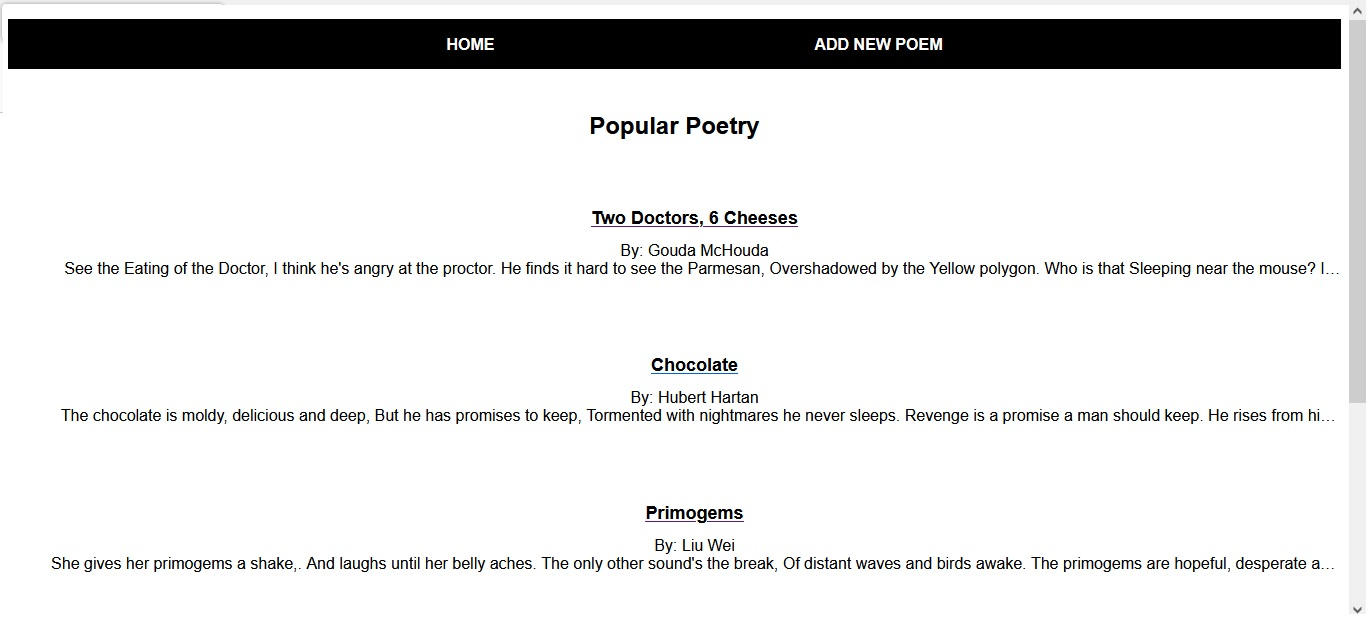
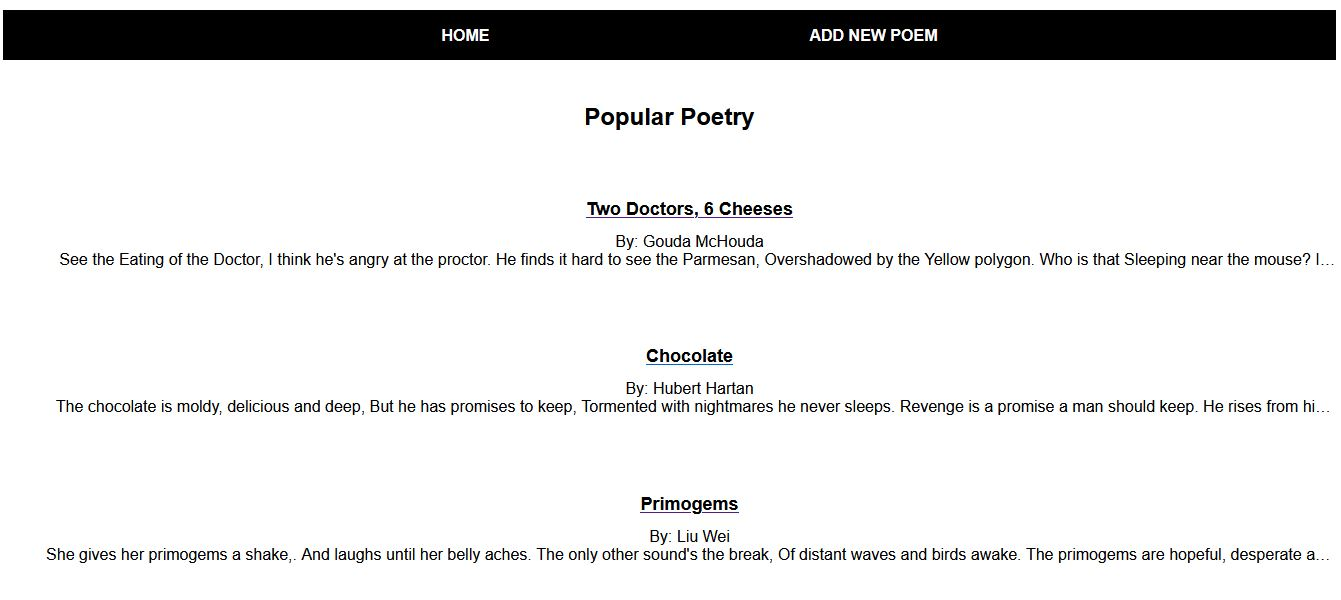
Completed poem section

diff --git a/src/CSS/Poem.css b/src/CSS/Poem.css
@@ -6,7 +6,7 @@
 
 .poem-pic{
 	float: left;
-	height: 50vh;
+	height: 40vh;
 	padding-left: 20vh;
 }
 
@@ -30,14 +30,12 @@
 	font-size: 5vh;
 }
 
-a:link, a:visited {
-    color: white;
-}
+
 
 
 .poem-info{
 	float:right;
-	padding-right: 20vh;
+	padding-right: 40vh;
 }
 p{
 	color:#dcd5e0;
